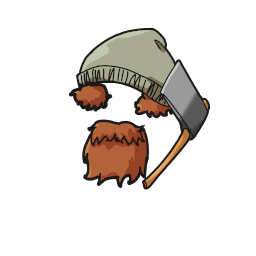
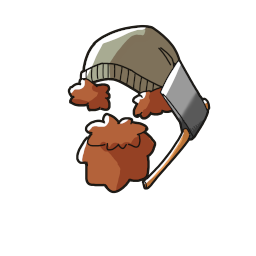
Update lumberjacks

diff --git a/src/assets/images/lanes/buildings/index.ts b/src/assets/images/lanes/buildings/index.ts
@@ -13,6 +13,7 @@ import sketchHouse from "./sketch-house.png";
 import ufo from "./ufo.png";
 import wizardTower from "./wizard-tower.png";
 import powerPlant from "./power-plant.png";
+import wood from "./wood.png";
 
 export {
     forge,
@@ -30,4 +31,5 @@ export {
     ufo,
     wizardTower,
     powerPlant,
+    wood,
 };

diff --git a/src/components/lanes/lane/data.ts b/src/components/lanes/lane/data.ts
@@ -63,7 +63,7 @@ export const lanes: { [type in LaneType]: LaneData } = {
     [LaneType.Lumberjacks]: {
         job: Job.Lumberjack,
         background: backgrounds.wip,
-        building: buildings.castle,
+        building: buildings.wood,
         rateMs: 1.1e1 / 1e3,
         clovers: {
             regular: [],
